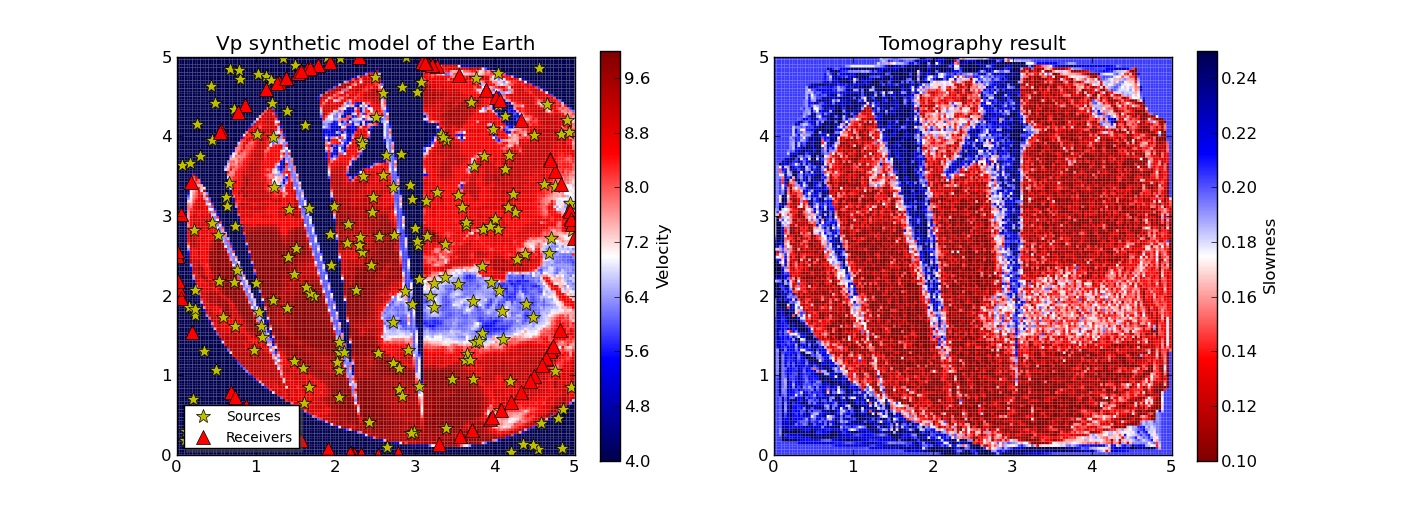
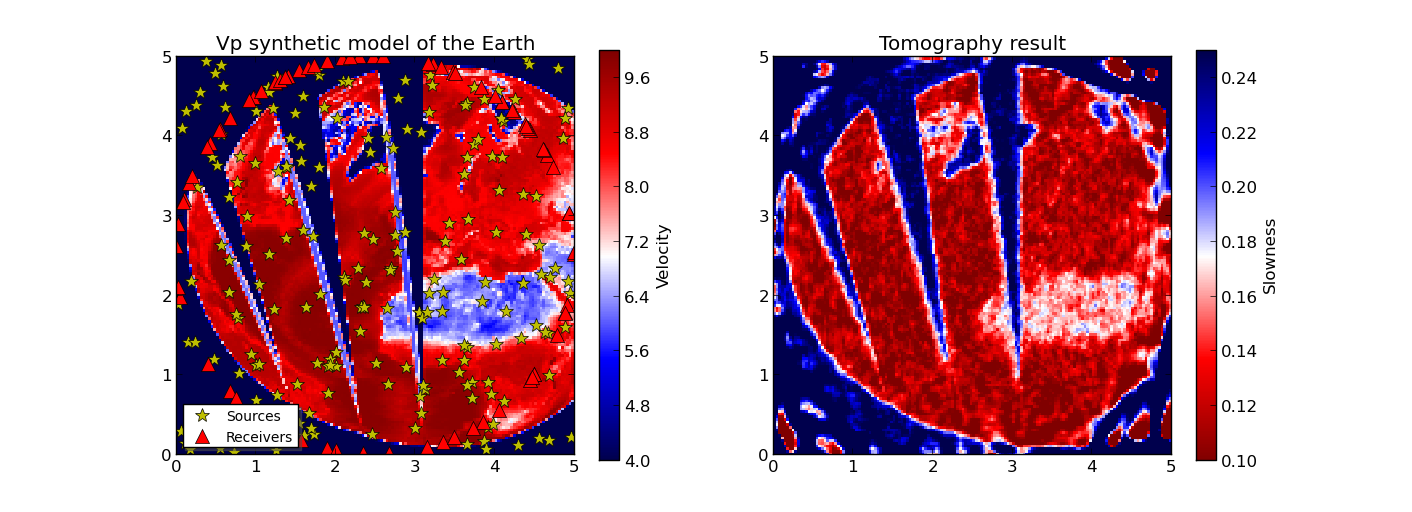
Implemented sparse smoothness for 2d problems

diff --git a/fatiando/inversion/regularizer.py b/fatiando/inversion/regularizer.py
@@ -331,19 +331,36 @@ class Smoothness(Regularizer):
 
     def __init__(self, mu, nparams, sparse=False):
         Regularizer.__init__(self, mu)
-        fdmat = self._makefd(nparams)
-        self.rtr = numpy.dot(fdmat.T, fdmat)
+        fdmat = self._makefd(nparams, sparse)
+        if sparse:
+            self.rtr = fdmat.T*fdmat
+            self.value = self._value_sparse
+            self.sum_gradient = self._sum_gradient_sparse
+        else:
+            self.rtr = numpy.dot(fdmat.T, fdmat)
+            self.value = self._value
+            self.sum_gradient = self._sum_gradient
 
-    def _makefd(self, nparams):
+    def _makefd(self, nparams, sparse):
         raise NotImplementedError("_makefd of Smoothness not implemented")
 
-    def value(self, p):
+    def _value(self, p):
         return self.mu*numpy.dot(p.T, numpy.dot(self.rtr, p))
 
-    def sum_gradient(self, gradient, p=None):
+    def _sum_gradient(self, gradient, p=None):
         if p is None:
             return gradient
         return gradient + (self.mu*2.)*numpy.dot(self.rtr, p)
+
+    def _value_sparse(self, p):
+        # self.rtr*p returns a dense array, so I have to use numpy.dot for
+        # matrix multiplication
+        return self.mu*numpy.dot(p.T, self.rtr*p)
+
+    def _sum_gradient_sparse(self, gradient, p=None):
+        if p is None:
+            return gradient
+        return gradient + (self.mu*2.)*self.rtr*p
 
     def sum_hessian(self, hessian, p=None):
         return hessian + (self.mu*2.)*self.rtr
@@ -386,7 +403,10 @@ class Smoothness1D(Smoothness):
     def __init__(self, mu, nparams, sparse=False):
         Smoothness.__init__(self, mu, nparams, sparse)
 
-    def _makefd(self, nparams):
+    def _makefd(self, nparams, sparse):
+        if sparse:
+            raise ValueError(
+                "sparse matrices not implemented for 1D smoothness")
         return fdmatrix1d(nparams)
 
 class Smoothness2D(Smoothness):
@@ -442,8 +462,8 @@ class Smoothness2D(Smoothness):
     def __init__(self, mu, shape, sparse=False):
         Smoothness.__init__(self, mu, shape, sparse)
 
-    def _makefd(self, shape):
-        return fdmatrix2d(shape)
+    def _makefd(self, shape, sparse):
+        return fdmatrix2d(shape, sparse)
 
 class TotalVariation(Regularizer):
     r"""
@@ -691,19 +711,17 @@ def fdmatrix2d(shape, sparse=False):
         The finite difference matrix for of a 2D problem
 
     """
-    if sparse:
-        msg = "Sparse 2D finite-difference matrix not implemented"
-        raise NotImplementedError(msg)
     ny, nx = shape
     deriv_num = (nx - 1)*ny + (ny - 1)*nx
-    fdmat = numpy.zeros((deriv_num, nx*ny))
+    rows, cols, values = [], [], []
     deriv_i = 0
     # Derivatives in the x direction
     param_i = 0
     for i in xrange(ny):
         for j in xrange(nx - 1):
-            fdmat[deriv_i][param_i] = 1
-            fdmat[deriv_i][param_i + 1] = -1
+            rows.extend([deriv_i, deriv_i])
+            cols.extend([param_i, param_i + 1])
+            values.extend([1, -1])
             deriv_i += 1
             param_i += 1
         param_i += 1
@@ -711,8 +729,15 @@ def fdmatrix2d(shape, sparse=False):
     param_i = 0
     for i in xrange(ny - 1):
         for j in xrange(nx):
-            fdmat[deriv_i][param_i] = 1
-            fdmat[deriv_i][param_i + nx] = -1
+            rows.extend([deriv_i, deriv_i])
+            cols.extend([param_i, param_i + nx])
+            values.extend([1, -1])
             deriv_i += 1
             param_i += 1
+    fdshape = (deriv_num, nx*ny)
+    if sparse:
+        fdmat = scipy.sparse.csr_matrix((values, (rows, cols)), fdshape)
+    else:
+        fdmat = numpy.zeros(fdshape)
+        fdmat[rows, cols] = values
     return fdmat

diff --git a/cookbook/recipes/srtomo_sparse.py b/cookbook/recipes/srtomo_sparse.py
@@ -30,7 +30,7 @@ ttimes = ft.utils.contaminate(ttimes, 0.01, percent=True)
 
 mesh = ft.msh.dd.SquareMesh(area, shape)
 results = ft.seis.srtomo.run(ttimes, srcs, recs, mesh, sparse=True,
-                             damping=0.05)
+                             smooth=0.05)
 estimate, residuals = results
 mesh.addprop('vp', estimate)
 
